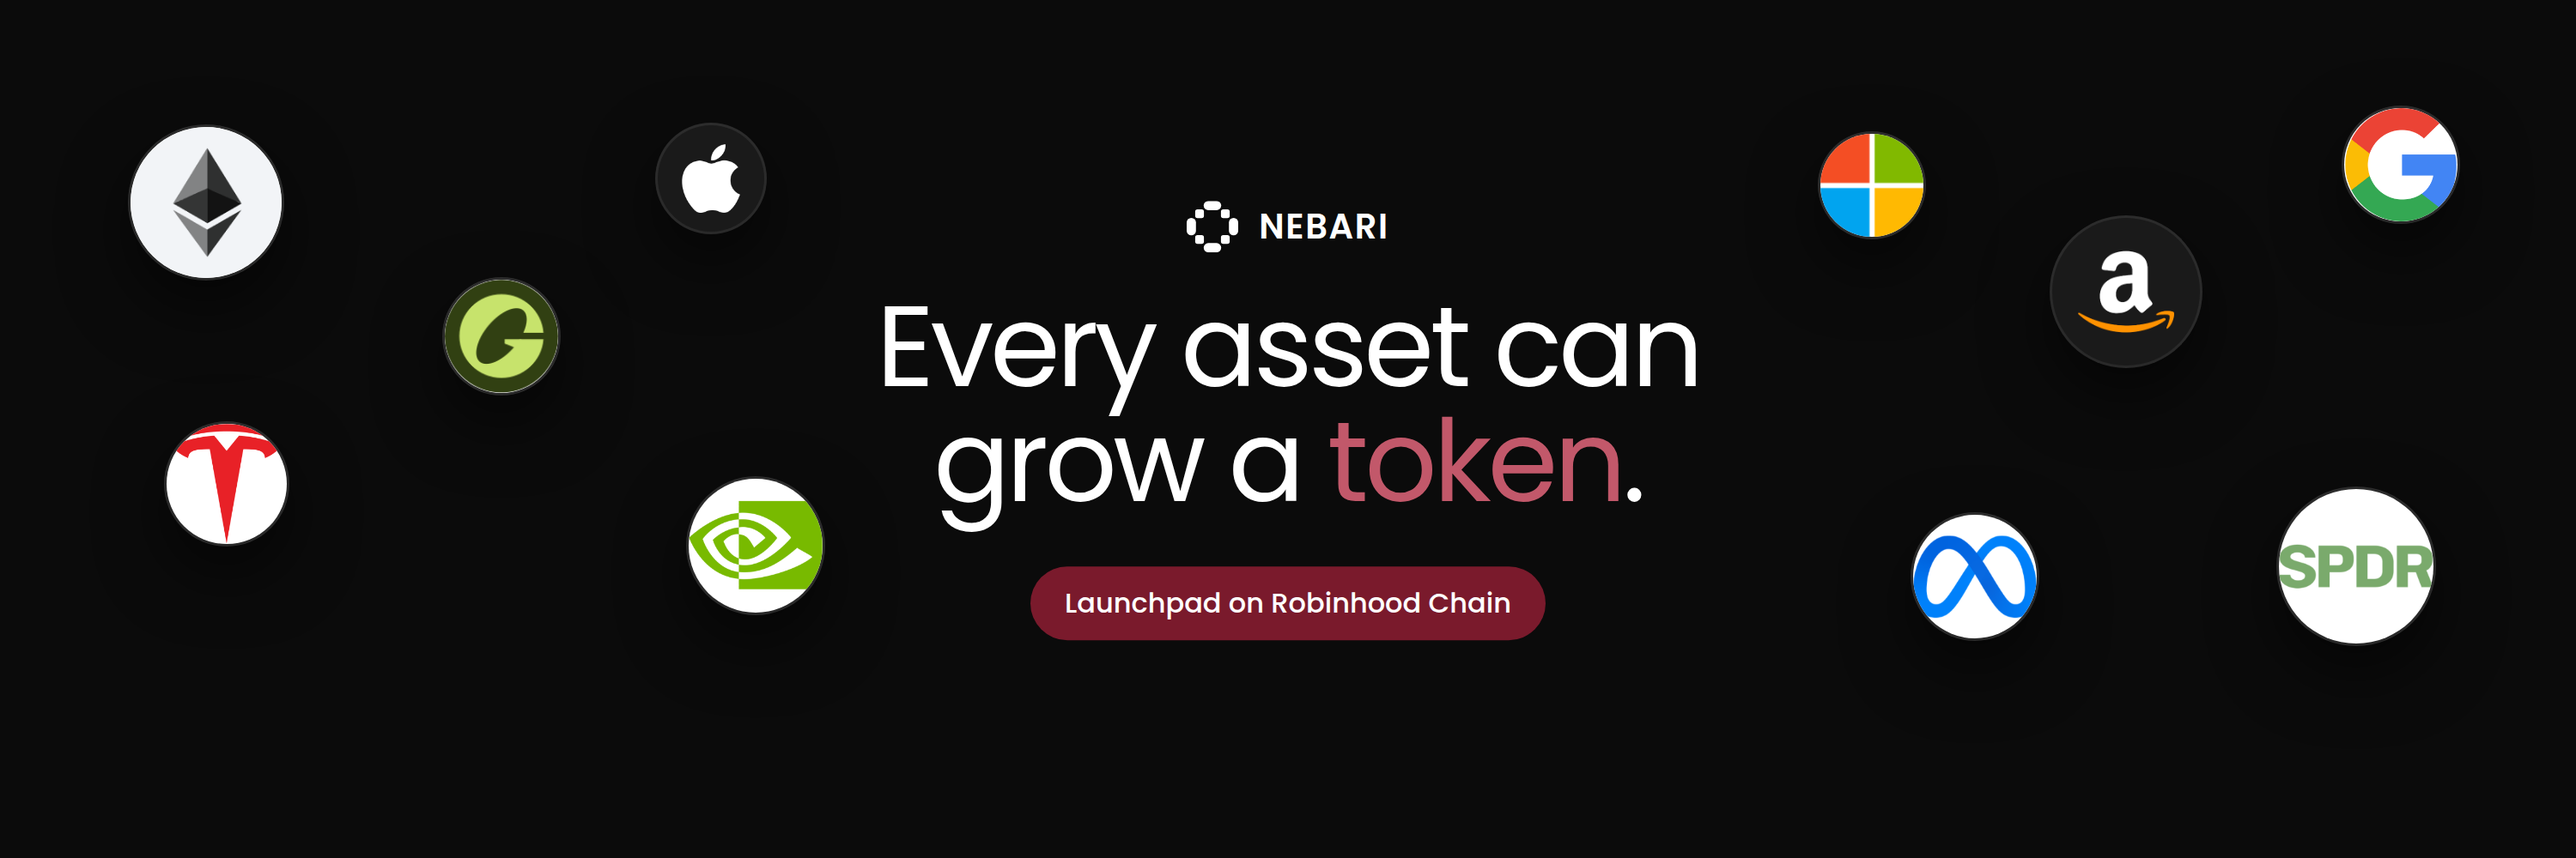
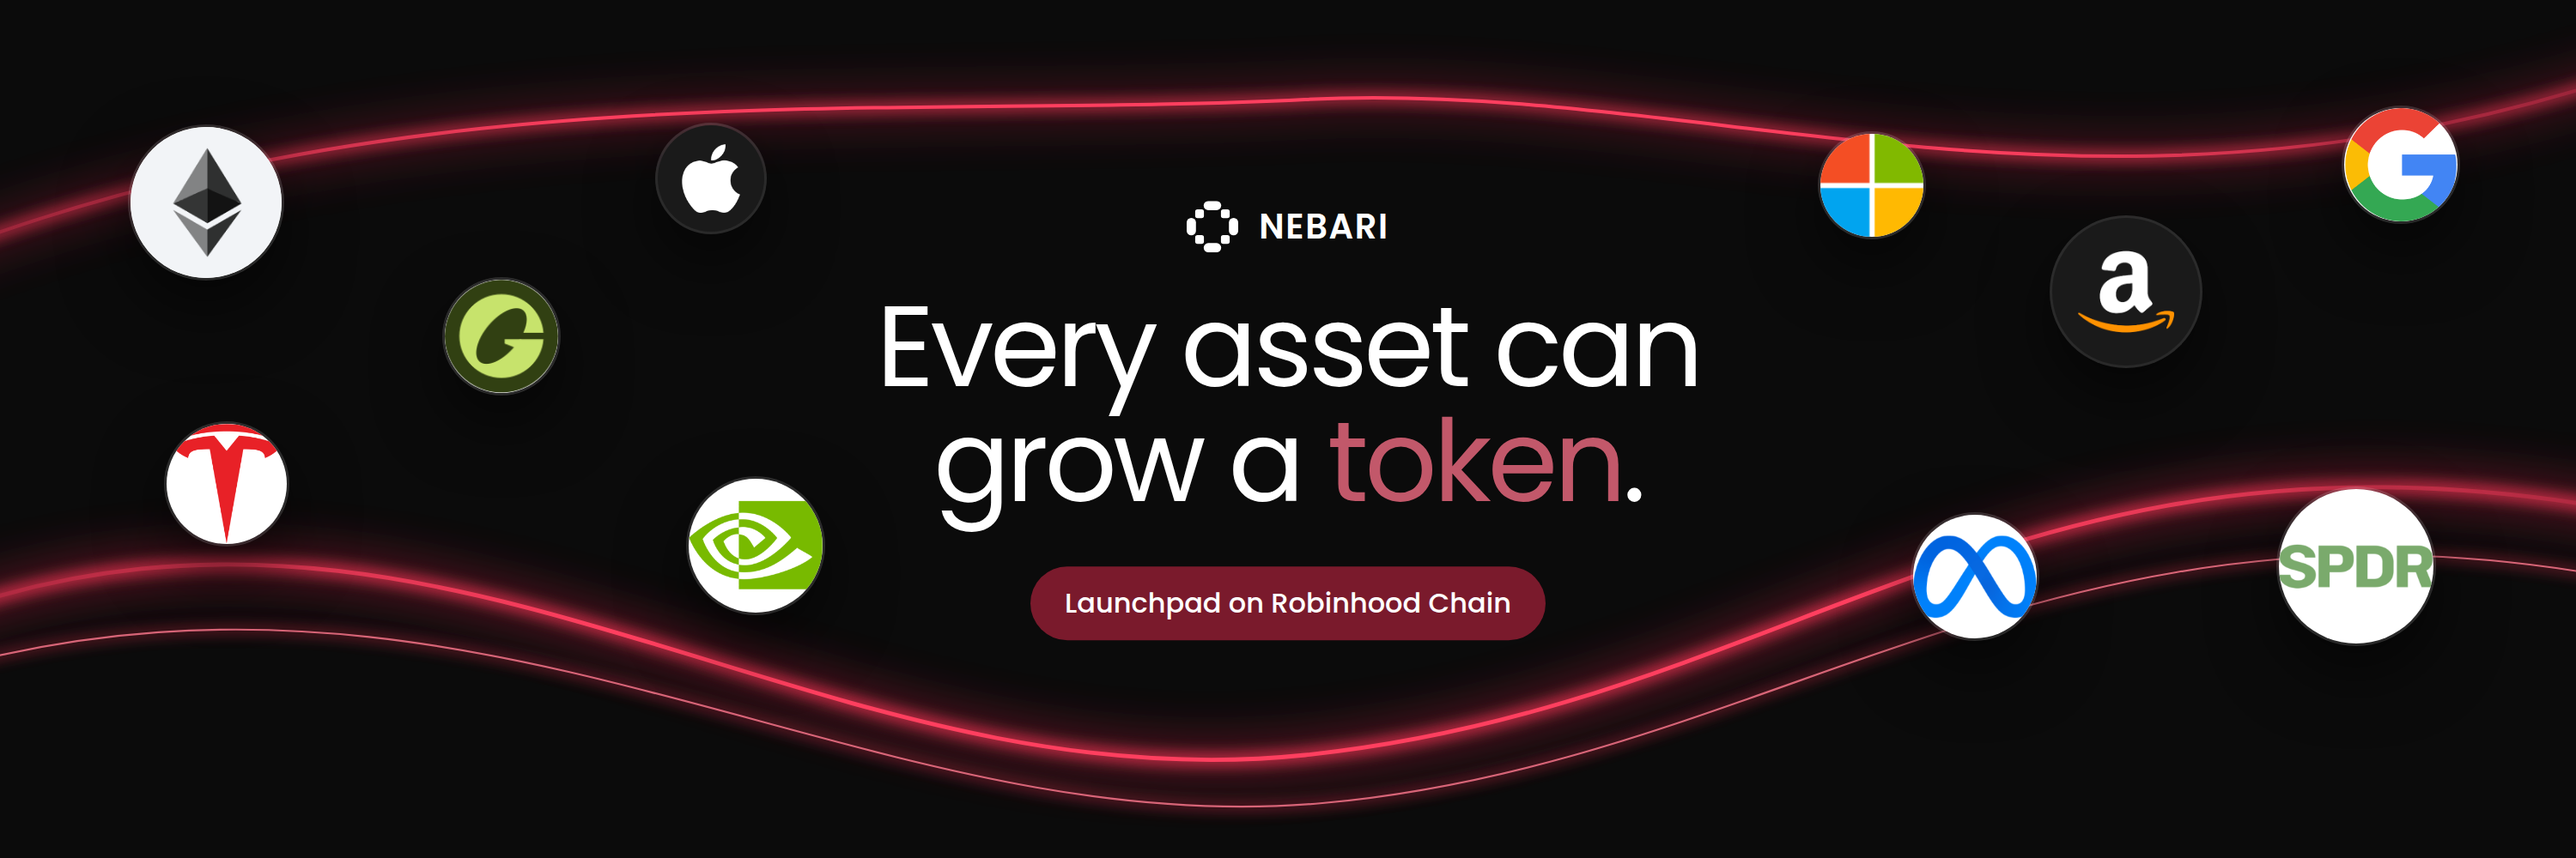
Nebari: neon lines behind the X header
Three glowing maroon-red sweeps cross the header behind the logos and
the slogan: one above the wordmark, two below the pill, each drawn as a
wide soft glow, a tighter glow and a thin bright core that fades out at
the edges.

Claude-Session: https://claude.ai/code/session_019cZVYVR4XpBDnyP8dUKT2Q

diff --git a/nebari-site/brand/header.html b/nebari-site/brand/header.html
@@ -10,6 +10,8 @@
   @font-face { font-family: 'Poppins'; font-weight: 600; src: url('fonts/Poppins-SemiBold.ttf'); }
   html, body { margin: 0; }
   .hdr { position: relative; width: 1500px; height: 500px; overflow: hidden; background: #0b0b0b; font-family: 'Poppins', sans-serif; color: #fff; }
+  .neon { position: absolute; inset: 0; width: 1500px; height: 500px; z-index: 0; }
+  .logo, .center { z-index: 1; }
   .logo { position: absolute; transform: translate(-50%, -50%); border-radius: 50%; box-shadow: 0 0 0 1.5px rgba(255,255,255,0.14), 0 16px 40px rgba(0,0,0,0.6); overflow: hidden; background: #fff; }
   .logo img { display: block; width: 100%; height: 100%; object-fit: cover; }
   .logo.dark { background: #1a1a1a; }
@@ -24,6 +26,34 @@
 </head>
 <body>
 <div class="hdr">
+  <!-- neon lines behind everything: a wide soft glow, a tighter glow, and a thin bright core -->
+  <svg class="neon" viewBox="0 0 1500 500" aria-hidden="true">
+    <defs>
+      <filter id="glow-wide" x="-10%" y="-50%" width="120%" height="200%"><feGaussianBlur stdDeviation="14"/></filter>
+      <filter id="glow-tight" x="-10%" y="-50%" width="120%" height="200%"><feGaussianBlur stdDeviation="4"/></filter>
+      <linearGradient id="fade" x1="0" x2="1" y1="0" y2="0">
+        <stop offset="0" stop-color="#ff3f5f" stop-opacity="0.15"/>
+        <stop offset="0.25" stop-color="#ff3f5f" stop-opacity="1"/>
+        <stop offset="0.75" stop-color="#ff3f5f" stop-opacity="1"/>
+        <stop offset="1" stop-color="#ff3f5f" stop-opacity="0.15"/>
+      </linearGradient>
+      <!-- the lower sweep runs under the pill, the upper one above the wordmark -->
+      <path id="sweep-low" d="M -40 360 C 260 250, 470 470, 760 440 S 1180 230, 1540 300"/>
+      <path id="sweep-high" d="M -40 150 C 240 40, 520 70, 760 58 S 1220 150, 1540 40"/>
+      <path id="sweep-thin" d="M -40 392 C 280 300, 500 492, 770 468 S 1200 270, 1540 340"/>
+    </defs>
+    <g fill="none" stroke-linecap="round">
+      <use href="#sweep-low"  stroke="#b8243f" stroke-width="18" opacity="0.55" filter="url(#glow-wide)"/>
+      <use href="#sweep-low"  stroke="#e0304f" stroke-width="7"  opacity="0.9"  filter="url(#glow-tight)"/>
+      <use href="#sweep-low"  stroke="url(#fade)" stroke-width="2.4"/>
+      <use href="#sweep-high" stroke="#b8243f" stroke-width="16" opacity="0.45" filter="url(#glow-wide)"/>
+      <use href="#sweep-high" stroke="#e0304f" stroke-width="6"  opacity="0.8"  filter="url(#glow-tight)"/>
+      <use href="#sweep-high" stroke="url(#fade)" stroke-width="2"/>
+      <use href="#sweep-thin" stroke="#e0304f" stroke-width="4"  opacity="0.55" filter="url(#glow-tight)"/>
+      <use href="#sweep-thin" stroke="#ff7a90" stroke-width="1.1" opacity="0.8"/>
+    </g>
+  </svg>
+
   <!-- left side; the lower-left corner stays clear for the profile picture -->
   <span class="logo" style="left:120px; top:118px; width:88px; height:88px"><img src="../assets/logos/eth.png" alt=""></span>
   <span class="logo" style="left:292px; top:196px; width:66px; height:66px"><img src="../assets/logos/usdg.png" alt=""></span>
